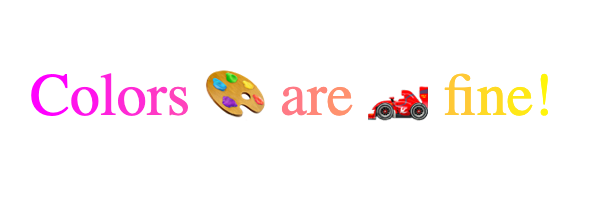
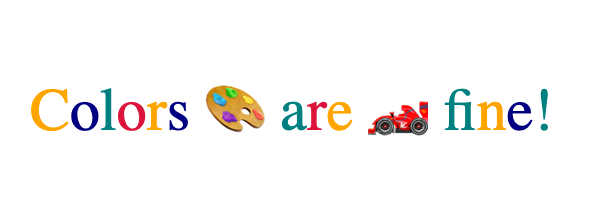
Update TextMetrics with options object

Changed region(s): [[0.03, 0.33, 0.93, 0.69]]

diff --git a/spec/enhanced-textmetrics.md b/spec/enhanced-textmetrics.md
@@ -18,14 +18,9 @@ We also want to provide more power to current canvas text rendering APIs.
 ## Proposal
 
 ```webidl
-[Exposed=(Window,Worker)] interface TextMetrics {
-  // ... extended from current TextMetrics.
-  
-  sequence<DOMRectReadOnly> getSelectionRects(unsigned long start, unsigned long end);
-  DOMRectReadOnly getActualBoundingBox(unsigned long start, unsigned long end);
-  sequence<TextCluster> getTextClustersForRange(unsigned long start, unsigned long end, optional DOMString text_align, optional DOMString text_baseline);
-
-  unsigned long caretPositionFromOffset(double offset);
+dictionary TextAnchorPoint {
+  DOMString align;
+  DOMString baseline;
 };
 
 [Exposed=(Window,Worker)]
@@ -35,6 +30,22 @@ interface TextCluster {
     attribute double y;
     attribute unsigned long begin;
     attribute unsigned long end;
+};
+
+[Exposed=(Window,Worker)] interface TextMetrics {
+  // ... extended from current TextMetrics.
+  
+  sequence<DOMRectReadOnly> getSelectionRects(unsigned long start, unsigned long end);
+  DOMRectReadOnly getActualBoundingBox(unsigned long start, unsigned long end);
+  sequence<TextCluster> getTextClustersForRange(unsigned long start, unsigned long end, optional DOMString text_align, optional TextAnchorPoint anchor_point);
+
+  unsigned long caretPositionFromOffset(double offset);
+};
+
+interface CanvasRenderingContext2D {
+    // ... extended from current CanvasRenderingContext2D.
+
+    void fillTextCluster(TextCluster textCluster);
 };
 ```
 
@@ -90,7 +101,9 @@ ctx.textBaseline = 'middle';
 
 const text = 'Colors 🎨 are 🏎 fine!';
 let tm = ctx.measureText(text);
-let clusters = tm.getTextClustersForRange(0, text.length, 'left', 'middle');
+let clusters = tm.getTextClustersForRange(0, text.length,
+                                         {align: 'left', 
+                                          baseline: 'middle'});
 
 for(let cluster of clusters) {
     let blue = 100 * cluster.x / tm.width;
